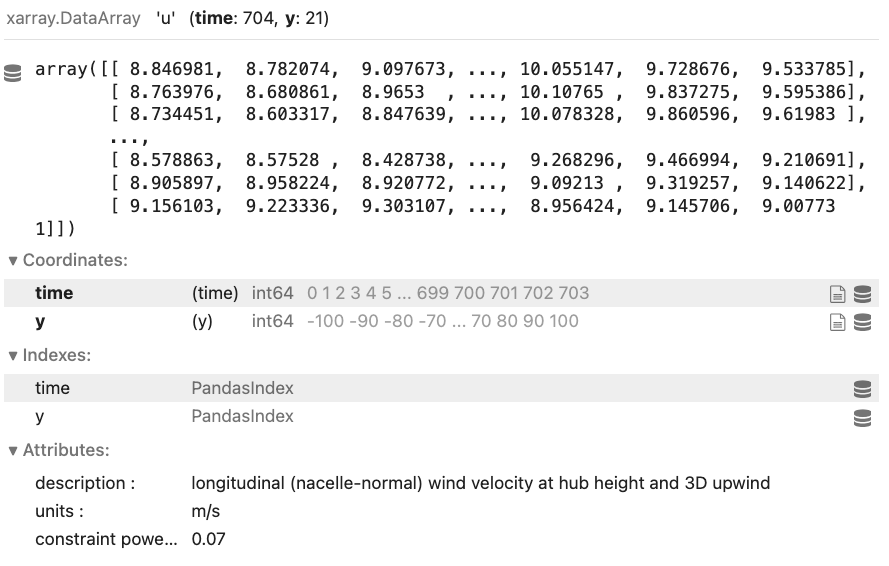
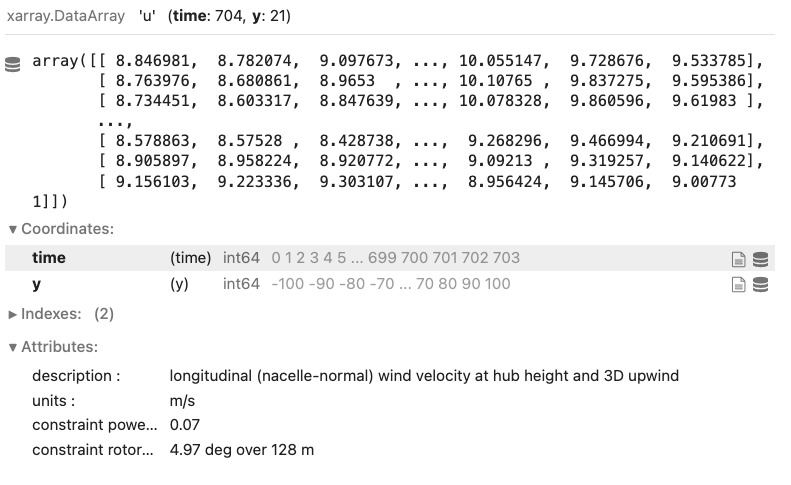
added osse info, data, schematics

diff --git a/docs/unstable.rst b/docs/unstable.rst
@@ -8,23 +8,36 @@ This page gives information specifc to the Unstable Benchmarks. Information that
 Modeling Instructions
 ^^^^^^^^^^^^^^^^^^^^^
 
-This benchmark is open to all members of the `IEA Wind Task 57 (JAM) <https://iea-wind.org/task57/>`_.
+Perform steps 1--3 twice: one for the validation against field measurements, and one for the validation against reference simulation data.
 
 1. Download the constraint data for the three cases in :ref:`Data Access <data_access>`
 
 2. Generate :math:`\geq 6` inflows for each case
-    - If possible, enforce a time-averaged vertical wind shear based on the power-law exponent provided in the table below and inside each constraint file as an attribute
-    - Details on the requested data apply to all benchmarks and are found in :ref:`Data Requested <data_requested>`
 
-3. Upload the 18 inflows to the provided box link
+  - Details on the requested data (what to submit) apply to all benchmarks (not just the unstable one described here) and are found in :ref:`Data Requested <data_requested>`
 
+  - If applicable, use the coherence parameters provided in the table below. Note that they are the same for the three cases.
 
-Case Description
-^^^^^^^^^^^^^^^^
+3. Upload the :math:`\geq 18` inflows to the provided box link 
+
+  - Link is provided upon signing up to the benchmark
+
+.. figure:: ./images/benchmarks_requested.png
+  :align: center
+
+Shear and veer instructions
+***************************
+
+  - For the validation against measurements, use the power-law exponent and veer provided in the table below. The same values are also provided in each  netcdf constraint file as an attribute.
+
+  - For the validation against measurements, use 
+
+The Three Measurement Periods
+^^^^^^^^^^^^^^^^^^^^^^^^^^^^^
 
 Each benchmark case refers to an individual 704-second period measured in the field. For the unstable benchmark, we will consider three such periods observed within a window of less than two hours. Therefore the three periods are similar in terms of atmospheric conditions, but different enough in terms of dynamics. We consider three periods to add variation and build confidence in the results.
 
-.. table:: *Table: Unstable benchmark cases. With the exception of the rows in* **bold**, *the information below is not meant to be used in the simulations.*
+.. table:: *Table: Unstable benchmark cases. With the exception of the rows in* **bold**, *the information below is* **not** *meant to be used in the simulations.*
 
     +---------------------------------------+--------------------------------------------+--------------------------------------------+---------------------------------------------+
     | Case identifier                       | 1500                                       | 1530                                       | 1600                                        |
@@ -49,7 +62,7 @@ Each benchmark case refers to an individual 704-second period measured in the fi
     +---------------------------------------+--------------------------------------------+--------------------------------------------+---------------------------------------------+
     | **Power law exponent**                | 0.1                                        | 0.01                                       | 0.07                                        |      
     +---------------------------------------+--------------------------------------------+--------------------------------------------+---------------------------------------------+
-    | Rotor-layer veer                      | -4.4 deg                                   | 1.0 deg                                    | 5.0 deg                                     |
+    | **Rotor-layer veer**                  | -4.4 deg                                   | 1.0 deg                                    | 5.0 deg                                     |
     +---------------------------------------+--------------------------------------------+--------------------------------------------+---------------------------------------------+
     | Near-surface kinematic heat flux      | 0.152 K m s :math:`^{-1}`                  | 0.192 K m s :math:`^{-1}`                  | 0.198 K m s :math:`^{-1}`                   |
     +---------------------------------------+--------------------------------------------+--------------------------------------------+---------------------------------------------+
@@ -81,13 +94,13 @@ Each benchmark case refers to an individual 704-second period measured in the fi
            <figcaption style="text-align: center;">(c)</figcaption>
        </figure>
    </div>
-   <figcaption style="text-align: left; font-style: italic;">Figure: Time-averages vertical profiles of wind speed as measured by multiple instruments, and best-fit power law using exponents provided above.</figcaption>
+   <figcaption style="text-align: left; font-style: italic;">Figure: Time-averaged vertical profiles of wind speed as measured by multiple instruments, and best-fit power law using exponents provided above.</figcaption>
 
 Notes on the values provided above:
 
 
-- The freestream wind speed above is the hub-height, time-averaged, laterally-averaged longitudinal velocity as derived from the nacelle-mounted scanning lidar and therefore corresponds to the single-value average of the ``NL`` dataset provided as a constraint. We use the ``NL`` here to be consistent with the data that will be provided. Other estimates of the mean freestream wind speed are available from the meteorological tower and ground-based profiling lidar, but those measure a parcel of air that is off to the side for these prevailing wind direction and therefore differ slightly from the lidar-measured values.
-- The freestream wind direction above combines the hub-height, time-averaged wind direction measured by the meteorological tower wind vane and the ground-based profiling lidar. One estimate is available for each instrument, and the average of the two values is provided above. We use the vane and profiling lidar because they are more accurate estimate of wind direction than the nacelle-based scanning lidar.
+- The freestream wind speed above is the hub-height, time-averaged, laterally-averaged longitudinal velocity as derived from the nacelle-mounted scanning lidar and therefore corresponds to the single-value average of the ``NL`` dataset provided as a constraint. We use the ``NL`` here to be consistent with the data that is provided as a constraint. Other estimates of the mean freestream wind speed are available from the meteorological tower and ground-based profiling lidar, but those measure a parcel of air that is off to the side for these prevailing wind directions and therefore differ slightly from the lidar-measured values.
+- The freestream wind direction above combines the hub-height, time-averaged wind direction measured by the meteorological tower wind vane and the ground-based profiling lidar at the same height. One estimate is available for each instrument, and the average of the two values is provided above. We use the vane and profiling lidar because they are more accurate estimates of wind direction than the nacelle-based scanning lidar.
 - The nacelle heading above is a time average considering 704 seconds of SCADA data starting :math:`t_{adv}` s later where  :math:`t_{adv}` is the advection time provided above, computed as :math:`3D/\overline{u}` (with :math:`3D=381` m and :math:`\overline{u}` being the wind speed values provided above).
 - The freestrem turbulence intensity above is computed similarly to the wind direction. It combines the hub-height values from the meteorological tower and the ground-based profiling lidar. One estimate is available for each instrument, and the average of the two values is provided above.
 - The rotor layer shear above is the difference between the time-averaged wind speeds at the rotor top (184 m) and rotor bottom (56 m) as measured by the ground-based profiling lidar.
@@ -96,7 +109,7 @@ Notes on the values provided above:
 - The heat flux above is obtained from the 2.5-meter temperature and vertical velocity ultrasonic measurements, considering a 30-minute window for the Reynolds averaging.
 - The Obukhov length above utilizes the value of heat flux provided, friction velocities estimated from the same instrument and using the same methodology as was employed for the heat flux calculation, and the time-averaged,  2-meter air temperature for the reference temperature.
 - The stability parameter is simply the inverse of the Obukhov length multiplied by the measurement height of 2.5 m.
-- The hub height density considers dry air and vapor and is obtained from vapor pressure and saturation vapor pressure estimates derived from the hub-height pressure, temperature and relative humidity measurements at the meteorological tower.
+- The hub-height density considers dry air and water vapor. It is obtained from vapor pressure and saturation vapor pressure estimates derived from the hub-height air pressure, temperature and relative humidity measurements at the meteorological tower.
 - The coherence parameters (:math:`a_K` and :math:`b_K`) were selected according to the procedures described in :ref:`data_description`. The values that provided the lowest errors for most separation distances were those fit to the measured coherence at a separation of 73 m between the wind speed measurements at 110.5 m and 183.5 m.
 
 .. figure:: ./images/cohfit.png
@@ -110,23 +123,44 @@ Notes on the values provided above:
 
 *Figure: Measured and fit magnitude-squared coherence. The fit uses the* :math:`a_K` *and* :math:`b_K` *parameters provided above, which were obtained by fitting the 73-meter-separation measured coherence function.*
 
+The Three Simulated Periods
+^^^^^^^^^^^^^^^^^^^^^^^^^^^
+
+The large-eddy simulations performed for this study match the atmospheric conditions measured in the field. In these simulations, we have less control over the time-averaged vertical profiles. Therefore, they do not match exactly the field measurements. Instead, the shear and veer for each of the three simulated cases is provided below. As for the measurement data, the same values are also provided as attributes in the netcdf constraint files.
+
+.. table:: *Table: Shear and veer in the large-eddy simulations of the unstable benchmark cases.*
+
+    +---------------------------------------+--------------------------------------------+--------------------------------------------+---------------------------------------------+
+    | Case identifier                       | 1                                          | 2                                          | 3                                           |
+    +---------------------------------------+--------------------------------------------+--------------------------------------------+---------------------------------------------+
+    | **Power law exponent**                | 0.07                                       | 0.06                                       | 0.00                                        |      
+    +---------------------------------------+--------------------------------------------+--------------------------------------------+---------------------------------------------+
+    | **Rotor-layer veer**                  | -1.4 deg                                   | 1.4 deg                                    | 0.1 deg                                     |
+    +---------------------------------------+--------------------------------------------+--------------------------------------------+---------------------------------------------+
+
 .. _data_access:
 
 Data Access
 ^^^^^^^^^^^
 
-Find the constraints for each of the periods on `Zenodo <https://zenodo.org/records/13769729>`_. 
+Find the constraints for each of the periods on `Zenodo <https://zenodo.org/records/13799999>`_. 
 
-- One file per case (1500, 1530 and 1600)
+- One set of files per case (1500, 1530 and 1600 for the measured flows; 1, 2 and 3 for the simulated flows)
 
-- Each file is ~130 MB
-
-- Each file contains an ``xarray.DataArray`` that looks like:
+- Each ``NL`` file contains an ``xarray.DataArray`` that looks like:
 
 .. figure:: ./images/DataArray.png
   :align: center
 
-The data inside each file is shown below for each of the periods.
+- Similarly, each ``LES`` file constains an ``xarray.DataArray`` that looks like:
+
+.. figure:: ./images/DataArray_sims.png
+  :align: center
+
+Sneak peek
+**********
+
+The data inside each ``NL`` file is shown below for each of the three periods.
 
 .. figure:: ./images/constraint_NL_1500_ens26.png
   :align: center

diff --git a/docs/index.rst b/docs/index.rst
@@ -10,13 +10,32 @@ Rotor Inflow Benchmarks
    unstable
    complex
 
-Current status of this benchmark study: **not yet released**   
-Questions? jam@nrel.gov
+Current status of this benchmark study: **RELEASED!**   
 
-.. figure:: ./images/benchmark_illustration.png
+This benchmark is open to all members of the `IEA Wind Task 57 (JAM) <https://iea-wind.org/task57/>`_. For questions, contact Paula.Doubrawa@nrel.gov
+
+Overview
+^^^^^^^^
+
+The current validation efforts focus on an :ref:`unstable period <unstable>` measured in the field. Two validation studies are conducted in parallel, with the second one being optional.
+
+Validation against Field Measurements
+*************************************
+
+Models extrapolate above and below the constraint. The flow fields are validated against spinner lidar measurements and used to drive loads simulations. Simulated loads are validated against field measurements.
+
+.. figure:: ./images/benchmark_illustration_field.png
   :align: center
 
-*Figure: Schematic of the data used in this benchmark.*
+Validation against Reference Simulations
+****************************************
+
+If you would like to see how your model compares to a reference dataset, we recommend performing this optional parallel validation study.
+
+In this study, models extrapolate above and below the constraint. The flow fields are validated against reference simulation flow data and used to drive loads simulations. Simulated loads are validated against the loads produced when simulations are driven with the reference flow data. This parallel validation study **complements the validation against field measurements** by circumventing measurement uncertainties and instead validating against ground truth from a reference large-eddy simulation (LES).
+
+.. figure:: ./images/benchmark_illustration_les.png
+  :align: center
 
 Why?
 ^^^^
@@ -27,26 +46,28 @@ Understanding their strengths and weaknesses will inform us on potential model a
 
 How?
 ^^^^
-
 - Use multiple methods to generate constrained rotor inflows
 - Compare them to one another
-- Validate them against measurements
+- **Validate simulated flow fields against measurements** (and reference simulation flow fields)
 - Perform aeroelastic simulations that are identical except for the inflow used
 - Quantify the effect of inflow accuracy on simulated structural loads
+- **Validate simulated structural loads against measurements**
 
 When?
 ^^^^^
 
-The :ref:`unstable benchmarks <unstable>` follow the schedule below:
+The :ref:`Unstable Benchmarks <unstable>` follow the schedule below:
 
-- October 2024: benchmark is released
+☑ October - December 2024: modelers simulate inflow planes
 
-- October - December 2024: modelers simulate inflow planes
+☐ December 2024: modelers submit inflow planes to benchmark lead
 
-- December: modelers submit inflow planes to benchmark lead
+☐ January 2025: benchmark lead performs inflow analyses
 
-- January: benchmark lead performs inflow analyses and requests necessary iterations from modelers
+☐ January 2025: modelers perform any requested iterations
 
-- February: benchmark lead performs aeroelastic simulations
+☐ February 2025: benchmark lead performs aeroelastic simulations
 
-- March: benchmark lead shares final results with modelers
+☐ March 2025: benchmark lead shares final results with modelers
+
+The anticipated final product is a **journal publication** containing model development and adoption recommendations.

diff --git a/docs/data_description.rst b/docs/data_description.rst
@@ -3,12 +3,12 @@
 Detailed Data Description
 -------------------------
 
-The information provided here applies to all rotor inflow benchmarks (i.e. the :ref:`Unstable Benchmark <unstable>` and other forthcoming ones).
+The information provided here applies to all rotor inflow benchmarks (i.e. the :ref:`Unstable Benchmarks <unstable>` and other forthcoming ones).
 
 Data provided
 ^^^^^^^^^^^^^
 
-**Constraint Inflow Turbulence**
+**Constraint Inflow Turbulence (Measurements)**
 
 - Identifier: ``NL`` (nacelle lidar)
 
@@ -31,6 +31,25 @@ Data provided
    - :math:`y \in [-150,150]` is the lateral (cross-wind) coordinate [m]
       - Discretization: :math:`dy=10` m
       - Size: :math:`n_y=31` 
+   - :math:`z=120` is the vertical (ground-normal) coordinate [m]
+
+**Constraint Inflow Turbulence (Simulations)**
+
+- Identifier: ``LES`` (large-eddy simulation)
+
+- Instrument source: N/A (not a measurement)
+
+- Upstream processing: N/A
+
+- Description: Time series of longitudinal wind velocity as a function of lateral coordinate, i.e. :math:`u(t,y)` where: 
+   - :math:`u` is the longitudinal wind velocity [m s :math:`^{-1}`]
+   - :math:`t \in [0,720]` is the time coordinate [s]
+      - Discretization: :math:`dt=1` s 
+      - Size: :math:`n_t=720` 
+   - :math:`x=-381` is the longitudinal (along-wind) coordinate [m] 
+   - :math:`y \in [-120,120]` is the lateral (cross-wind) coordinate [m]
+      - Discretization: :math:`dy=10` m
+      - Size: :math:`n_y=25` 
    - :math:`z=120` is the vertical (ground-normal) coordinate [m]
 
 
